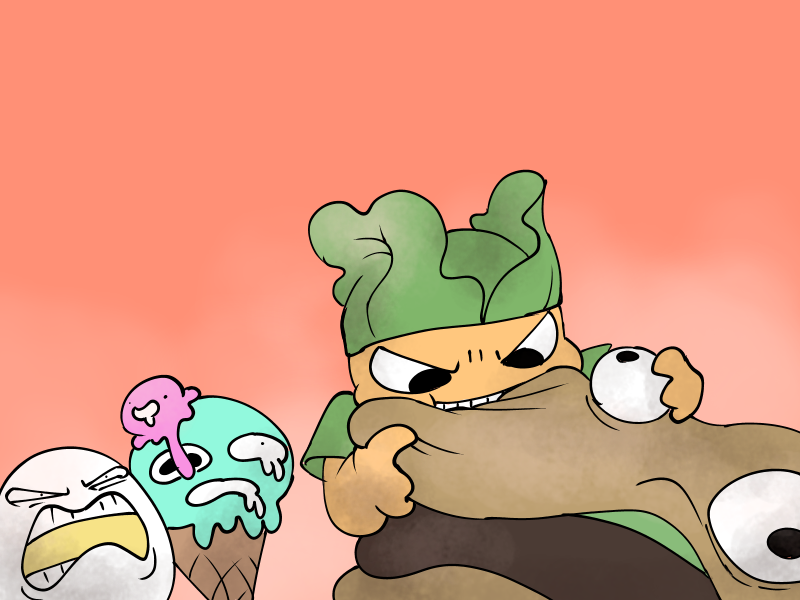
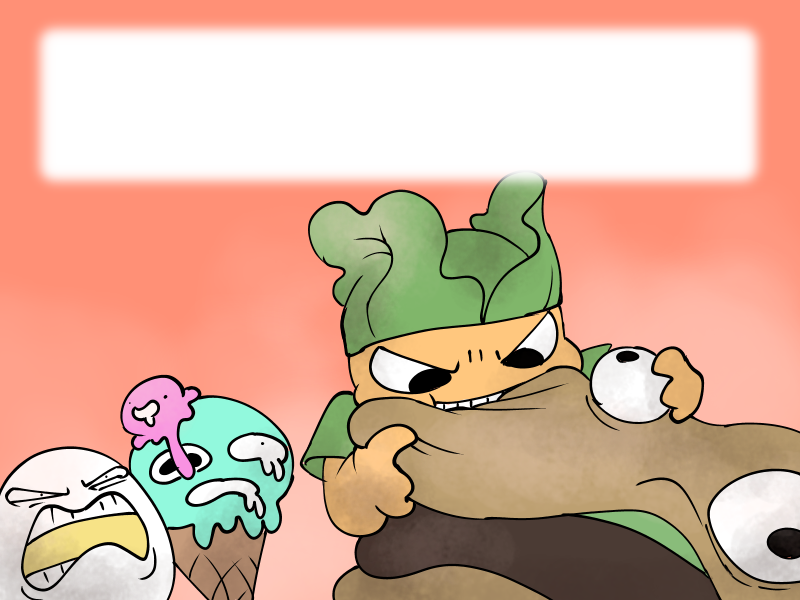
got cutscenes to work, need to figure out lag & clean up

Changed region(s): [[0.0312, 0.03, 0.9688, 0.33]]

diff --git a/Cutscene.py b/Cutscene.py
@@ -1,0 +1,93 @@
+import random
+import pygame as PG
+import pygame.display as PD
+import pygame.sprite as PS
+import pygame.event as PE
+import pygame.font as PF
+import sys
+import math
+import pygame.image as PI
+from Player import Player
+from Enemy import Enemy
+
+#NOTE: IT SEEMS THAT CUTSCENE DELETES AN ENEMY?? HOW TO FIX LAG AFTER SCENES COMPLETE?!!?
+
+class Cutscene(PS.Sprite):
+
+    def __init__(self, screen, level):
+        PS.Sprite.__init__(self)
+        self.screen = screen
+        self.origin = (0,0)
+        self.scenes = []
+        self.load(level)
+        self.play(level)
+
+    def load(self, level):
+        if(level == 1):
+            self.scenes.append(Scene(PI.load("FPGraphics/story/lv1_0.png").convert(), self.screen))
+            self.scenes.append(Scene(PI.load("FPGraphics/story/lv1_1.png").convert(), self.screen))
+            #need to load script backwards since I'm using pop what am I doing with my life T~T
+            self.scenes[1].add_text("But you couldn't say exactly how.",(200,80))
+            self.scenes[1].add_text("You always knew you were a little different.",(200,80))
+            self.scenes.append(Scene(PI.load("FPGraphics/story/lv1_2.png").convert(), self.screen))
+            self.scenes[2].add_over_img(PI.load("FPGraphics/story/lv1_2_sp.png").convert_alpha(),self.origin)
+            self.scenes[2].add_text("You're tired of dealing with this disrespect.", (110,65))
+            self.scenes[2].add_text("Maybe that's why no one wanted to play with you.", (185,60))
+            
+            self.scenes.append(Scene(PI.load("FPGraphics/story/lv1_3.png").convert(), self.screen))
+            #dear self, consider changing pop mechanism before this gets out of hand
+            self.scenes[3].add_over_img(PI.load("FPGraphics/story/lv1_3_sp3.png").convert_alpha(),(220,480))
+            self.scenes[3].add_over_img(PI.load("FPGraphics/story/lv1_3_sp2.png").convert_alpha(),(480,40))
+            self.scenes[3].add_over_img(PI.load("FPGraphics/story/lv1_3_sp1.png").convert_alpha(),(20,25))
+
+    #play all the scenes
+    def play(self, level):
+        count = 0
+        #play_scene() will return False if the user pressed q to skip
+        while(count < len(self.scenes) and self.scenes[count].play_scene()):
+            count += 1
+
+class Scene(PS.Sprite):
+
+    def __init__(self, image, screen):
+        self.screen = screen
+        self.img = image
+        self.text = []
+        self.textcoords = []
+        self.over_img = []
+        self.over_imgcoords = []
+        self.end_cutscene = False
+        self.origin = (0,0)
+        self.font = PF.SysFont('Arial', 25)
+        self.text_color = (0,0,0)
+
+    def add_text(self, txt, txtcoord):
+        self.text.append(txt)
+        self.textcoords.append(txtcoord)
+
+    def add_over_img(self,oimg, imgcoord):
+        self.over_img.append(oimg)
+        self.over_imgcoords.append(imgcoord)
+
+    def play_scene(self):
+        self.screen.blit(self.img, self.origin)
+        while(self.end_cutscene == False):
+            PD.flip()
+            for event in PE.get():
+                if event.type == PG.KEYDOWN and event.key == PG.K_q:
+                    #skip cutscene
+                    self.end_cutscene = True
+                    return False #end entire cutscene
+                elif event.type == PG.KEYDOWN and event.key == PG.K_SPACE:
+                    if(len(self.text) > 0 and len(self.textcoords) > 0):
+                        self.screen.blit(self.img, self.origin) #find better way to clear text, maybe layers?
+                        txt = self.text.pop()
+                        txtcoord = self.textcoords.pop()
+                        self.screen.blit(self.font.render(txt, True, self.text_color), txtcoord)
+                    elif(len(self.over_img) > 0):
+                        oimg = self.over_img.pop()
+                        oimgcoord = self.over_imgcoords.pop()
+                        self.screen.blit(oimg,oimgcoord)
+                    else:
+                        self.end_cutscene = True #no more txt or imgs to add
+                        return True #go to next scene

diff --git a/Setup.py b/Setup.py
@@ -18,6 +18,7 @@ try:
 	import pygame.font as PF
 	import random
 	from Trap import Puddle
+	from Cutscene import Cutscene
 
 except ImportError, err:
 	print "%s Failed to Load Module: %s" % (__file__, err)
@@ -116,11 +117,12 @@ class Game(object):
 								  "specialEffects/ULOSE.png").convert_alpha()
 		self.end_time = 800
 		self.end_image_position = (100, 178)
-		self.map.draw_map()
 
 	def run(self):
+		#lv1_cutscene = Cutscene(self.screen,1)
 		running = True
 		while running:
+			self.map.draw_map()
 			new_time = PT.get_ticks()
 			frame_time = (new_time - self.current_time)/1000.0
 			self.current_time = new_time
